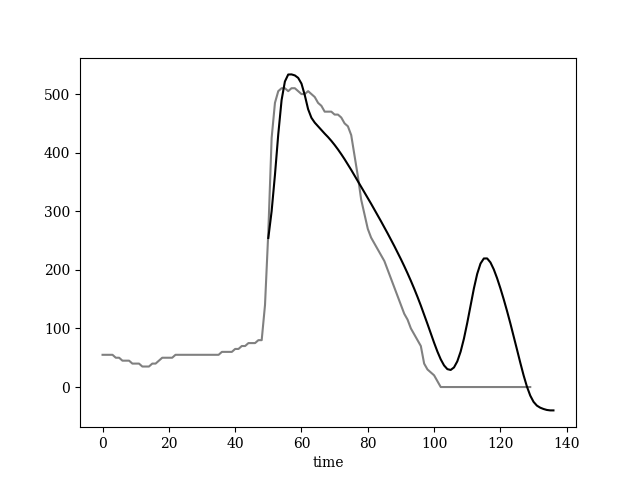
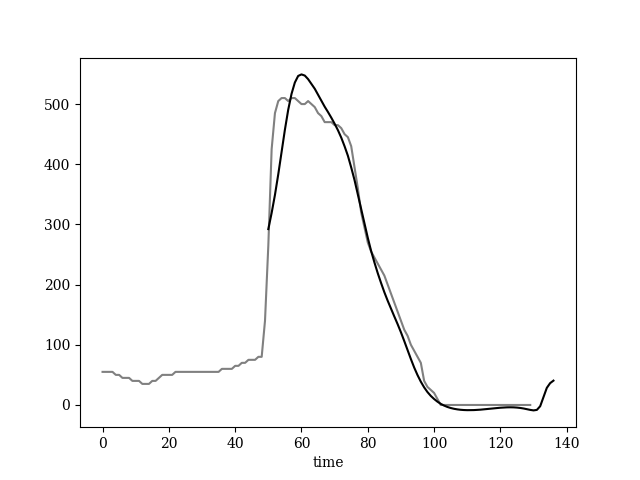
add LSTM only one dim

diff --git a/5/keras/only_one_LSTM.py b/5/keras/only_one_LSTM.py
@@ -3,7 +3,7 @@ import numpy as np
 import matplotlib.pyplot as plt
 from keras.models import Sequential
 from keras.layers.core import Dense, Activation
-from keras.layers.recurrent import SimpleRNN
+from keras.layers.recurrent import LSTM
 from keras.optimizers import Adam
 from keras.callbacks import EarlyStopping
 from sklearn.model_selection import train_test_split
@@ -76,7 +76,7 @@ def weight_variable(shape, name=None):
 early_stopping = EarlyStopping(monitor='val_loss', patience=10, verbose=1)
 
 model = Sequential()
-model.add(SimpleRNN(n_hidden,
+model.add(LSTM(n_hidden,
                     kernel_initializer=weight_variable,
                     input_shape=(maxlen, n_in)))
 model.add(Dense(n_out, kernel_initializer=weight_variable))
